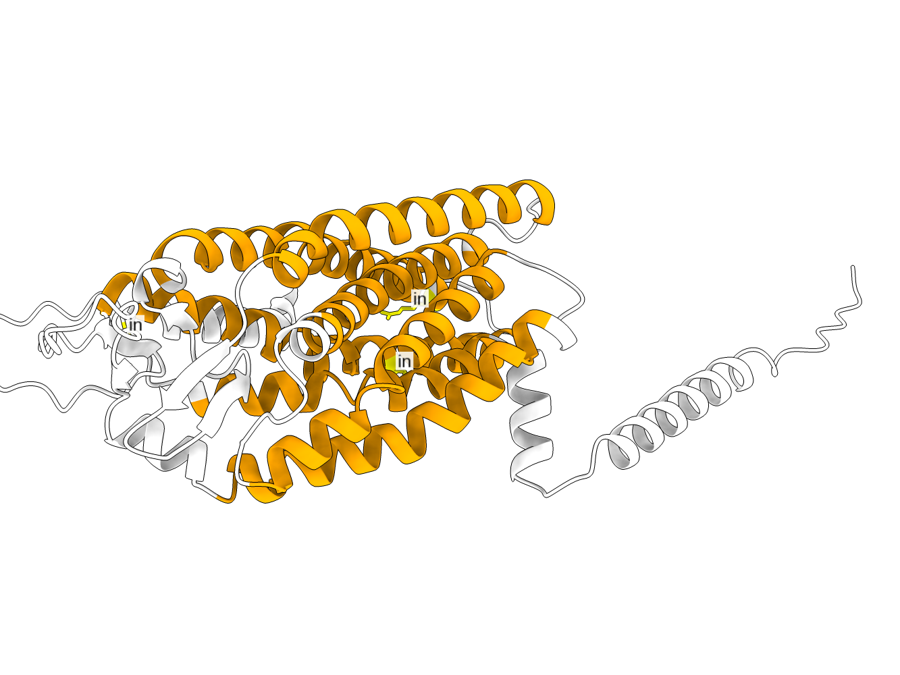
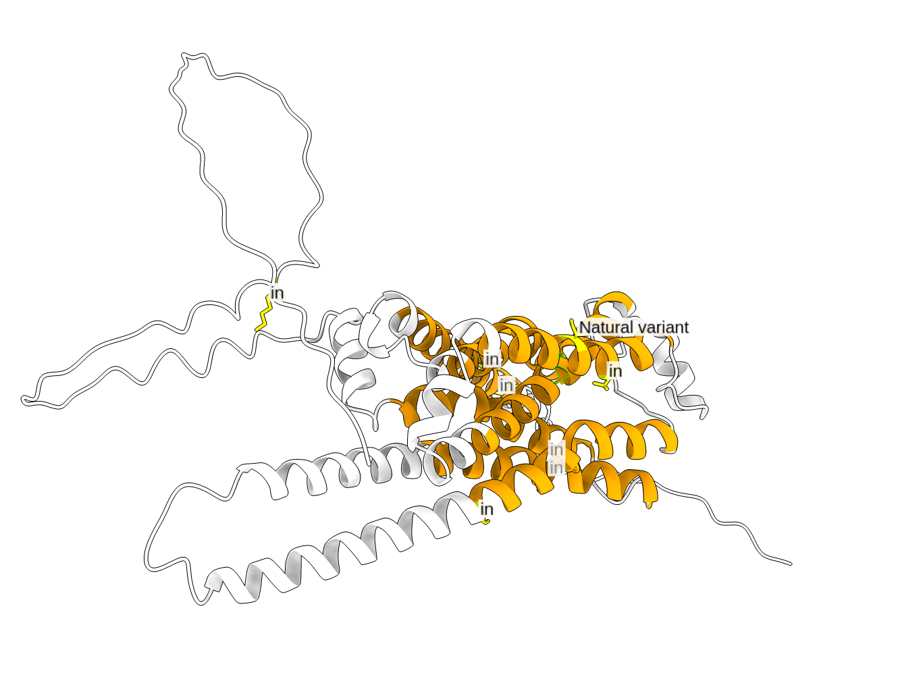
Screenshots re-shot on the public demo protein
Every step that shows the demo gene now shows ADRB2, with the Mistral header;
the bookmark step frames the whole receptor; both hero images rebuilt.

Claude-Session: https://claude.ai/code/session_01PM7SbgSP3nzreh8gr2JfWo

diff --git a/docs/tutorial.html b/docs/tutorial.html
@@ -184,7 +184,7 @@
 <figure><img alt="Residue 159 mapped through the chain's UniProt entry" src="img/tut/06b_map_panel.png" /><figcaption>Residue 159 mapped through the chain's UniProt entry</figcaption></figure>
 <h3 id="step-6c-bookmark-a-view">Step 6c · Bookmark a view</h3>
 <blockquote>
-<p>zoom in on residue 159 and bookmark this view as pocket</p>
+<p>highlight residue 113, pull back so the whole receptor is visible, and bookmark this view as pocket</p>
 <p>now show the whole thing, then go back to the pocket view</p>
 </blockquote>
 <p>Bookmarks are ChimeraX's named views: Pellaeon lists the ones you have saved in what it tells the model, so "back to the pocket view" works, and "make a movie touring my bookmarks" produces a fly-through (the encode step asks for your OK, like any file save).</p>

diff --git a/tests_chimerax/tutorial_renders.py b/tests_chimerax/tutorial_renders.py
@@ -70,7 +70,7 @@ STEPS = [
     ("12_figure",    None, [], False, "figure", []),     # the Save figure form + result card
     ("06_af",        "close everything, then open the AlphaFold model of the gene ADRB2", [], True, True, [LOOK, "view"]),
     ("06b_map",      "where is UniProt residue 159 in this structure?", [], True, True, []),
-    ("06c_zoom",     "zoom in on residue 159 and bookmark this view as pocket", [], False, False, []),
+    ("06c_zoom",     "highlight residue 113, pull back so the whole receptor is visible, and bookmark this view as pocket", [], False, False, []),
     ("06c",          "now show the whole thing, then go back to the pocket view", [], True, True, []),
     ("07_tm",        "color the transmembrane helices orange and the rest white", [], True, True, ["view"]),
     ("08_open_hbb",  None, ["close", "open alphafold:P68871", LOOK, "view"], False, False, []),   # HBB, deterministic setup for the ClinVar step

diff --git a/docs/tutorial.md b/docs/tutorial.md
@@ -166,7 +166,7 @@ The AlphaFold model uses UniProt numbering, so here it is residue 159 exactly. T
 
 ### Step 6c · Bookmark a view
 
-> zoom in on residue 159 and bookmark this view as pocket
+> highlight residue 113, pull back so the whole receptor is visible, and bookmark this view as pocket
 
 > now show the whole thing, then go back to the pocket view
 
